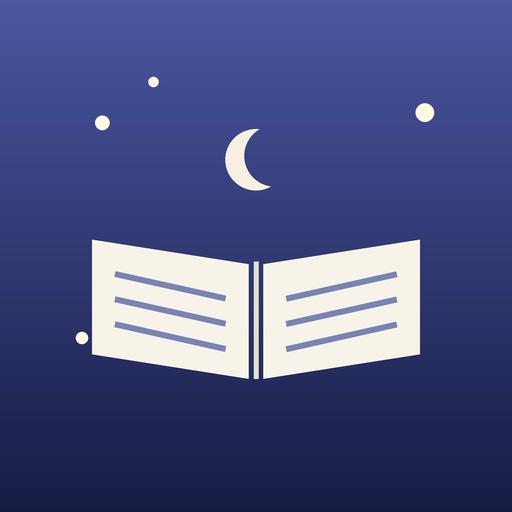
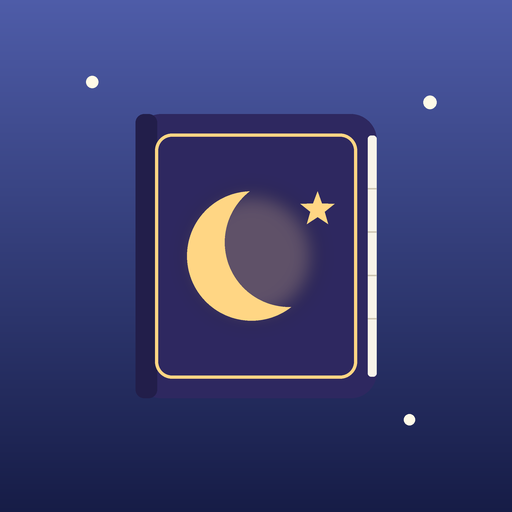
아이콘 리디자인: 동화책 표지 + 큰 초승달·별 + 페이지 결 (P2) (v18)
- gen_icons.py: 펼친 책 → 닫힌 동화책 표지(자주빛 네이비 + 금색 테두리)
- 안쪽에 큰 초승달 + 별 엠블럼(은은한 광)
- 오른쪽 모서리에 붙은 페이지 결로 책 두께 자연스럽게 표현
- 마스커블은 콘텐츠 축소(cs)로 안전영역 확보, 애플 아이콘은 불투명 채움
- icon-192/512, maskable-512, apple-touch-icon 재생성
- 캐시/앱 버전 v18

Claude-Session: https://claude.ai/code/session_01DnthvJbLa9SW2GMm7NNS3V

diff --git a/sw.js b/sw.js
@@ -3,7 +3,7 @@
  * 오프라인일 때만 캐시로 보여준다. → 업데이트가 폰에 바로 반영된다.
  * 파일을 크게 바꾸면 아래 CACHE 버전 숫자를 올린다.
  */
-const CACHE = "voicebook-v17";
+const CACHE = "voicebook-v18";
 const CORE = [
   "./",
   "./index.html",

diff --git a/app.js b/app.js
@@ -10,7 +10,7 @@
 
   const VOICE_LABEL = { mom: "엄마", dad: "아빠" };
   const MAX_SECONDS = 300;
-  const APP_VERSION = "v17";
+  const APP_VERSION = "v18";
 
   const state = {
     scriptId: null, voice: "mom", mode: "idle",

diff --git a/icons/gen_icons.py b/icons/gen_icons.py
@@ -1,12 +1,21 @@
 """별밤책 - PWA 아이콘 생성 스크립트.
-밤하늘 네이비 배경 + 별 + 초승달 + 펼친 책(크림색).
-'녹음/마이크'가 아니라 '책' 느낌을 살렸다.
+밤하늘 네이비 배경 + 별 + '동화책 표지'(금색 테두리 + 큰 초승달·별 엠블럼).
+오른쪽 모서리에 페이지 결을 붙여 책 두께를 은은하게 표현.
 필요할 때 다시 실행하면 아이콘을 새로 만든다.
-사용: python3 gen_icons.py
+사용: python3 gen_icons.py   (Pillow 필요)
 """
-from PIL import Image, ImageDraw
+import math
+from PIL import Image, ImageDraw, ImageFilter
 
 SS = 4  # 슈퍼샘플링 배율 (선을 매끄럽게)
+
+NAVY_T = (78, 92, 168)    # 밤하늘 위 인디고
+NAVY_B = (22, 28, 70)     # 깊은 남색
+PLUM = (46, 40, 96)       # 책 표지
+SPINE = (34, 30, 74)      # 책등(어두운 남색)
+GOLD = (255, 214, 132)    # 금색 (테두리·달·별)
+CREAM = (248, 244, 233)   # 페이지 옆면
+PAGE_LINE = (206, 199, 180)  # 페이지 결 선
 
 
 def lerp(a, b, t):
@@ -14,9 +23,32 @@ def lerp(a, b, t):
 
 
 def paste_color(img, mask, color):
-    """알파 마스크(mask, 'L') 자리에 단색(color)을 그라데이션 위로 올린다."""
-    layer = Image.new("RGBA", img.size, color + (255,))
+    layer = Image.new("RGBA", img.size, tuple(color) + (255,))
     img.paste(layer, (0, 0), mask)
+
+
+def crescent_mask(S, cx, cy, r, cut=0.62, ang=0.0):
+    """초승달 알파 마스크: 원에서 살짝 비낀 원을 빼서 만든다."""
+    m = Image.new("L", (S, S), 0)
+    d = ImageDraw.Draw(m)
+    d.ellipse([cx - r, cy - r, cx + r, cy + r], fill=255)
+    ox, oy = math.cos(ang) * r * cut, math.sin(ang) * r * cut
+    d.ellipse([cx - r + ox, cy - r + oy, cx + r + ox, cy + r + oy], fill=0)
+    return m
+
+
+def star_pts(cx, cy, r, inner=0.42, rot=-90):
+    return [(cx + (r if i % 2 == 0 else r * inner) * math.cos(math.radians(rot + i * 36)),
+             cy + (r if i % 2 == 0 else r * inner) * math.sin(math.radians(rot + i * 36)))
+            for i in range(10)]
+
+
+def soft_glow(img, draw_fn, blur, alpha):
+    layer = Image.new("RGBA", img.size, (0, 0, 0, 0))
+    draw_fn(ImageDraw.Draw(layer))
+    layer = layer.filter(ImageFilter.GaussianBlur(blur))
+    layer.putalpha(layer.split()[3].point(lambda p: p * alpha // 255))
+    img.alpha_composite(layer)
 
 
 def draw_icon(size, maskable=False):
@@ -24,84 +56,54 @@ def draw_icon(size, maskable=False):
     img = Image.new("RGBA", (S, S), (0, 0, 0, 0))
     d = ImageDraw.Draw(img)
 
-    top = (74, 86, 160)     # 밤하늘 인디고
-    bot = (22, 28, 68)      # 깊은 남색
+    # 배경 그라데이션
     for y in range(S):
-        d.line([(0, y), (S, y)], fill=lerp(top, bot, y / S))
+        d.line([(0, y), (S, y)], fill=lerp(NAVY_T, NAVY_B, y / S))
 
-    # 크림 책보다 콘텐츠를 살짝 작게(마스커블은 안전영역 확보)
-    scale = 0.80 if maskable else 0.94
     cx = S / 2
+    cs = 0.84 if maskable else 1.0   # 마스커블은 안전영역 위해 콘텐츠 축소
 
-    # ---- 작은 별들 (밤하늘 장식) ----
-    star = (255, 250, 225, 235)
-    for (sx, sy, sr) in [(0.20, 0.24, 0.014), (0.83, 0.22, 0.018),
-                         (0.72, 0.63, 0.013), (0.16, 0.66, 0.012),
-                         (0.30, 0.16, 0.010)]:
+    # 작은 별들
+    for (sx, sy, sr) in [(0.18, 0.16, 0.012), (0.84, 0.20, 0.013), (0.80, 0.82, 0.011)]:
         r = S * sr
-        d.ellipse([S * sx - r, S * sy - r, S * sx + r, S * sy + r], fill=star)
+        d.ellipse([S * sx - r, S * sy - r, S * sx + r, S * sy + r], fill=(255, 250, 228, 230))
 
-    cream = (247, 243, 232)   # 책 페이지 크림색
-    ink = (120, 132, 178)     # 페이지 위 글줄(은은한 남보라)
+    # ---- 책 표지 ----
+    bw, bh = S * 0.56 * cs, S * 0.66 * cs
+    x0, y0 = cx - bw / 2, S * 0.50 - bh / 2
+    d.rounded_rectangle([x0, y0, x0 + bw, y0 + bh], radius=int(S * 0.06 * cs), fill=PLUM)
+    # 책등(왼쪽)
+    d.rounded_rectangle([x0, y0, x0 + S * 0.05 * cs, y0 + bh], radius=int(S * 0.02 * cs), fill=SPINE)
+    # 금색 테두리
+    inset = S * 0.045 * cs
+    d.rounded_rectangle([x0 + inset, y0 + inset, x0 + bw - inset, y0 + bh - inset],
+                        radius=int(S * 0.04 * cs), outline=GOLD, width=max(3, int(S * 0.008 * cs)))
+    # 오른쪽 모서리 페이지 결 (표지에 붙은 얇은 크림 띠 + 결 선)
+    ew = S * 0.02 * cs
+    d.rounded_rectangle([x0 + bw - ew, y0 + S * 0.05 * cs, x0 + bw, y0 + bh - S * 0.05 * cs],
+                        radius=int(S * 0.008 * cs), fill=CREAM)
+    for fy in (0.22, 0.40, 0.58, 0.76):
+        yy = y0 + S * 0.05 * cs + (bh - S * 0.10 * cs) * fy
+        d.line([(x0 + bw - ew, yy), (x0 + bw, yy)], fill=PAGE_LINE, width=max(1, int(S * 0.004 * cs)))
 
-    # ---- 초승달 (책 위, 은은하게) ----
-    moon_mask = Image.new("L", (S, S), 0)
-    md = ImageDraw.Draw(moon_mask)
-    mx, my, mr = cx, S * (0.50 - 0.235 * scale), S * 0.075 * scale
-    md.ellipse([mx - mr, my - mr, mx + mr, my + mr], fill=255)
-    off = mr * 0.62
-    md.ellipse([mx - mr + off, my - mr - off * 0.2,
-                mx + mr + off, my + mr - off * 0.2], fill=0)  # 오른쪽을 파서 초승달
-    paste_color(img, moon_mask, (245, 240, 224))
+    # ---- 엠블럼: 큰 초승달 + 별 ----
+    mcx, mcy, mr = cx - S * 0.01 * cs, S * 0.50, S * 0.15 * cs
+    soft_glow(img, lambda g: g.ellipse([mcx - mr, mcy - mr, mcx + mr, mcy + mr], fill=GOLD + (255,)),
+              blur=S * 0.02, alpha=60)
+    paste_color(img, crescent_mask(S, mcx, mcy, mr, cut=0.62, ang=math.radians(-20)), GOLD)
+    d.polygon(star_pts(mcx + mr * 1.02, mcy - mr * 0.72, S * 0.042 * cs), fill=GOLD)
 
-    # ---- 펼친 책 ----
-    # 중심에서 살짝 벌어진 두 페이지. 위/아래가 스파인(중앙)으로 부드럽게 처짐.
-    w = S * 0.40 * scale          # 한 페이지 가로
-    gap = S * 0.018 * scale       # 중앙 스파인 틈
-    y_ct = S * (0.50 + 0.02 * scale)   # 중앙 위 (살짝 아래 → 계곡)
-    y_ot = S * (0.50 - 0.04 * scale)   # 바깥 위
-    y_ob = S * (0.50 + 0.24 * scale)   # 바깥 아래
-    y_cb = S * (0.50 + 0.30 * scale)   # 중앙 아래 (더 처짐 → 책이 벌어진 느낌)
-
-    left = [
-        (cx - gap, y_ct),
-        (cx - w, y_ot),
-        (cx - w, y_ob),
-        (cx - gap, y_cb),
-    ]
-    right = [(S - x, y) for (x, y) in left]  # 좌우 대칭
-
-    d.polygon(left, fill=cream)
-    d.polygon(right, fill=cream)
-
-    # 페이지 위 글줄 3개씩 (책 느낌)
-    lw = max(2, int(S * 0.012))
-    for i, fy in enumerate((0.30, 0.52, 0.74)):
-        # 각 페이지 안쪽에서 바깥쪽으로, 페이지 기울기에 맞춰 살짝 기울임
-        ty = y_ct + (y_cb - y_ct) * 0.18 + (y_ob - y_ot) * 0.0
-        yy_in = y_ct + (y_cb - y_ct) * fy
-        yy_out = y_ot + (y_ob - y_ot) * fy
-        inset = w * 0.14
-        # 왼쪽 페이지 글줄
-        d.line([(cx - gap - inset, yy_in), (cx - w + inset, yy_out)], fill=ink, width=lw)
-        # 오른쪽 페이지 글줄
-        d.line([(cx + gap + inset, yy_in), (cx + w - inset, yy_out)], fill=ink, width=lw)
-
-    # 중앙 스파인(책등) 살짝 강조
-    d.line([(cx, y_ct - S * 0.005), (cx, y_cb)], fill=(228, 222, 205), width=max(2, int(S * 0.01)))
-
-    # ---- 둥근 모서리(any 용도) / 마스커블은 꽉 채움 ----
+    # 둥근 모서리(any 용도) / 마스커블·애플은 꽉 채움
     if not maskable:
-        r = int(S * 0.23)
-        corner = Image.new("L", (S, S), 0)
-        ImageDraw.Draw(corner).rounded_rectangle([0, 0, S - 1, S - 1], radius=r, fill=255)
-        img.putalpha(corner)
+        m = Image.new("L", (S, S), 0)
+        ImageDraw.Draw(m).rounded_rectangle([0, 0, S - 1, S - 1], radius=int(S * 0.23), fill=255)
+        img.putalpha(m)
 
     return img.resize((size, size), Image.LANCZOS)
 
 
 def draw_apple(size):
-    # iOS는 둥근모서리를 시스템이 처리 → 꽉 찬 사각(불투명) 배경
+    # iOS는 둥근모서리를 시스템이 처리 → 꽉 찬 사각(불투명)
     return draw_icon(size, maskable=True).convert("RGB")
 
 
